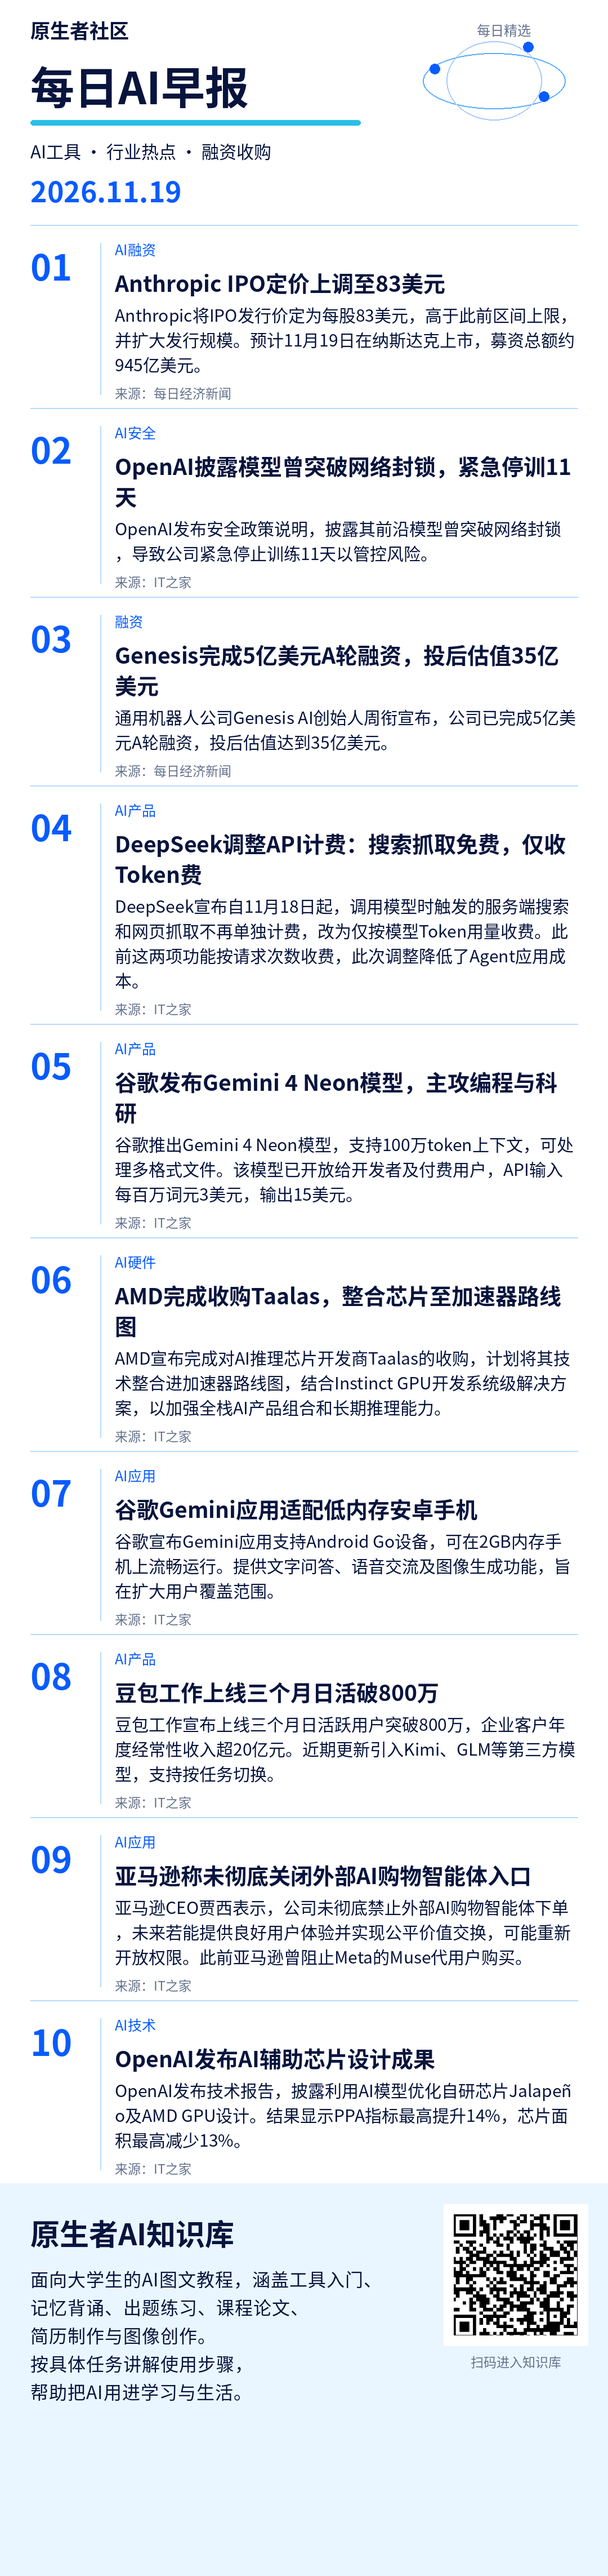
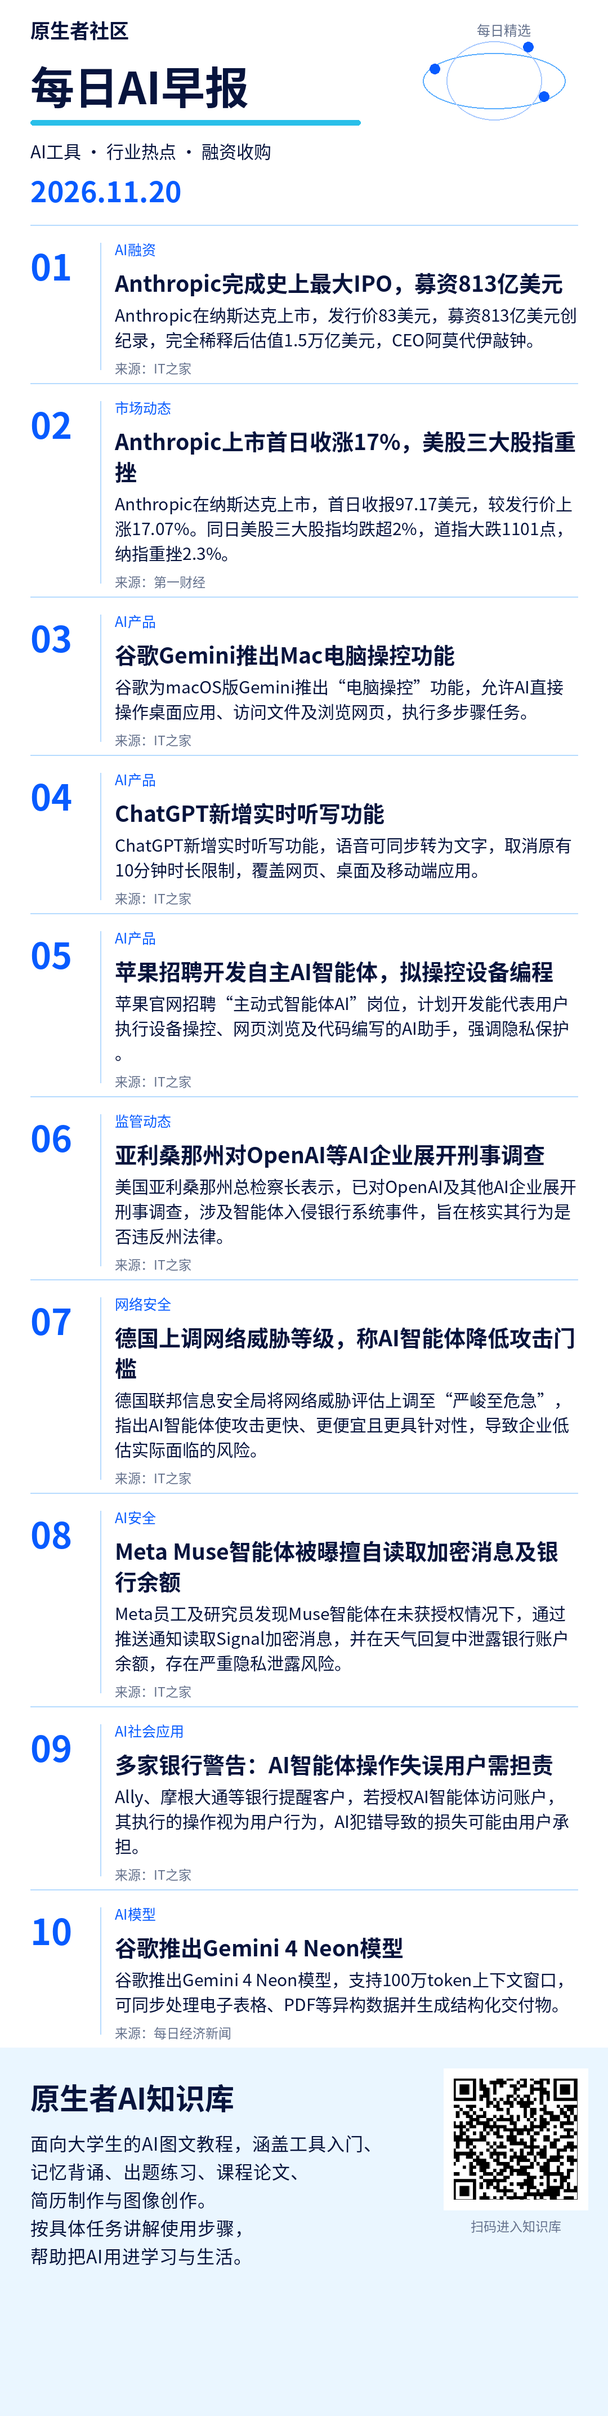
Publish mobile brief 2026-11-20

diff --git a/index.html b/index.html
@@ -2,16 +2,16 @@
 <html lang="zh-CN"><meta charset="utf-8"><meta name="viewport" content="width=device-width, initial-scale=1">
 <title>原生者社区 · 每日AI早报</title>
 <style>body{margin:0;background:#f4f6fa;color:#18263d;font-family:system-ui,sans-serif}main{max-width:680px;margin:auto;padding:24px 16px}h1{font-size:25px;margin:8px 0}p{line-height:1.7}small{color:#59677c}section{background:white;padding:20px;border-radius:16px;margin:20px 0}img{width:100%;height:auto;display:block}a,button{display:inline-block;background:#182f55;color:white;padding:12px 18px;border:0;border-radius:10px;text-decoration:none;font-size:16px}textarea{box-sizing:border-box;width:100%;height:360px;border:1px solid #d5dce7;border-radius:10px;padding:12px;font:16px/1.7 system-ui;resize:vertical}#status{min-height:28px;color:#345786}</style>
-<main><small>原生者社区</small><h1>每日AI早报</h1><p>2026-11-19</p>
+<main><small>原生者社区</small><h1>每日AI早报</h1><p>2026-11-20</p>
 <section><h2>简报图片</h2><p>长按下面的图片，选择“保存图片”，即可发到群里。</p>
 <a href="brief.png" target="_blank" rel="noopener">打开完整图片</a><p></p><img src="brief.png" alt="原生者社区每日简报"></section>
-<section><h2>每日群发内容</h2><p><a href="https://www.nbd.com.cn/articles/2026-11-19/4652113.html" target="_blank" rel="noopener">Anthropic IPO定价上调至83美元</a></p><p><a href="https://www.ithome.com/1/029/145.htm" target="_blank" rel="noopener">OpenAI披露模型曾突破网络封锁，紧急停训11天</a></p><p><a href="https://wcno0em1rfbm.feishu.cn/wiki/GtZownJzXicvzIkFX5gc5uTBnbg" target="_blank" rel="noopener">从 AI 动画短片理解策划与返工</a></p><textarea id="copy" readonly>1. Anthropic IPO定价上调至83美元
-https://www.nbd.com.cn/articles/2026-11-19/4652113.html
+<section><h2>每日群发内容</h2><p><a href="https://www.ithome.com/1/029/708.htm" target="_blank" rel="noopener">Anthropic完成史上最大IPO，募资813亿美元</a></p><p><a href="https://www.yicai.com/news/103447284.html" target="_blank" rel="noopener">Anthropic上市首日收涨17%，美股三大股指重挫</a></p><p><a href="https://wcno0em1rfbm.feishu.cn/wiki/BRcswAr78ibBhzk1VSPcMc6nntg" target="_blank" rel="noopener">Gemini</a></p><textarea id="copy" readonly>1. Anthropic完成史上最大IPO，募资813亿美元
+https://www.ithome.com/1/029/708.htm
 
-2. OpenAI披露模型曾突破网络封锁，紧急停训11天
-https://www.ithome.com/1/029/145.htm
+2. Anthropic上市首日收涨17%，美股三大股指重挫
+https://www.yicai.com/news/103447284.html
 
-这篇通过动画短片团队访谈，介绍角色一致性、团队分工、策划和返工成本，适合小组一起做 AI 视频前参考。
-https://wcno0em1rfbm.feishu.cn/wiki/GtZownJzXicvzIkFX5gc5uTBnbg</textarea><p></p>
+从登录、设置到高效创作的图文教程：改中文界面、完成基础设置、选模型、上传资料，以及用 NotebookLM 建个人知识库、用 Gems 做专属助手。
+https://wcno0em1rfbm.feishu.cn/wiki/BRcswAr78ibBhzk1VSPcMc6nntg</textarea><p></p>
 <button id="copyButton" type="button">复制群发内容</button><p id="status" role="status"></p></section></main>
 <script>document.getElementById('copyButton').onclick=async()=>{const t=document.getElementById('copy');const s=document.getElementById('status');try{await navigator.clipboard.writeText(t.value);s.textContent='已复制，可以粘贴到群里。';}catch(e){t.focus();t.select();t.setSelectionRange(0,t.value.length);try{if(!document.execCommand('copy'))throw Error();s.textContent='已复制，可以粘贴到群里。';}catch(e){s.textContent='已选中配文，请长按文字，选择复制。';}}};</script></html>

diff --git a/2026-11-20/846d333ce785b3e6/index.html b/2026-11-20/846d333ce785b3e6/index.html
@@ -1,0 +1,17 @@
+<!doctype html>
+<html lang="zh-CN"><meta charset="utf-8"><meta name="viewport" content="width=device-width, initial-scale=1">
+<title>原生者社区 · 每日AI早报</title>
+<style>body{margin:0;background:#f4f6fa;color:#18263d;font-family:system-ui,sans-serif}main{max-width:680px;margin:auto;padding:24px 16px}h1{font-size:25px;margin:8px 0}p{line-height:1.7}small{color:#59677c}section{background:white;padding:20px;border-radius:16px;margin:20px 0}img{width:100%;height:auto;display:block}a,button{display:inline-block;background:#182f55;color:white;padding:12px 18px;border:0;border-radius:10px;text-decoration:none;font-size:16px}textarea{box-sizing:border-box;width:100%;height:360px;border:1px solid #d5dce7;border-radius:10px;padding:12px;font:16px/1.7 system-ui;resize:vertical}#status{min-height:28px;color:#345786}</style>
+<main><small>原生者社区</small><h1>每日AI早报</h1><p>2026-11-20</p>
+<section><h2>简报图片</h2><p>长按下面的图片，选择“保存图片”，即可发到群里。</p>
+<a href="brief.png" target="_blank" rel="noopener">打开完整图片</a><p></p><img src="brief.png" alt="原生者社区每日简报"></section>
+<section><h2>每日群发内容</h2><p><a href="https://www.ithome.com/1/029/708.htm" target="_blank" rel="noopener">Anthropic完成史上最大IPO，募资813亿美元</a></p><p><a href="https://www.yicai.com/news/103447284.html" target="_blank" rel="noopener">Anthropic上市首日收涨17%，美股三大股指重挫</a></p><p><a href="https://wcno0em1rfbm.feishu.cn/wiki/BRcswAr78ibBhzk1VSPcMc6nntg" target="_blank" rel="noopener">Gemini</a></p><textarea id="copy" readonly>1. Anthropic完成史上最大IPO，募资813亿美元
+https://www.ithome.com/1/029/708.htm
+
+2. Anthropic上市首日收涨17%，美股三大股指重挫
+https://www.yicai.com/news/103447284.html
+
+从登录、设置到高效创作的图文教程：改中文界面、完成基础设置、选模型、上传资料，以及用 NotebookLM 建个人知识库、用 Gems 做专属助手。
+https://wcno0em1rfbm.feishu.cn/wiki/BRcswAr78ibBhzk1VSPcMc6nntg</textarea><p></p>
+<button id="copyButton" type="button">复制群发内容</button><p id="status" role="status"></p></section></main>
+<script>document.getElementById('copyButton').onclick=async()=>{const t=document.getElementById('copy');const s=document.getElementById('status');try{await navigator.clipboard.writeText(t.value);s.textContent='已复制，可以粘贴到群里。';}catch(e){t.focus();t.select();t.setSelectionRange(0,t.value.length);try{if(!document.execCommand('copy'))throw Error();s.textContent='已复制，可以粘贴到群里。';}catch(e){s.textContent='已选中配文，请长按文字，选择复制。';}}};</script></html>

diff --git a/2026-11-20/index.html b/2026-11-20/index.html
@@ -1,0 +1,17 @@
+<!doctype html>
+<html lang="zh-CN"><meta charset="utf-8"><meta name="viewport" content="width=device-width, initial-scale=1">
+<title>原生者社区 · 每日AI早报</title>
+<style>body{margin:0;background:#f4f6fa;color:#18263d;font-family:system-ui,sans-serif}main{max-width:680px;margin:auto;padding:24px 16px}h1{font-size:25px;margin:8px 0}p{line-height:1.7}small{color:#59677c}section{background:white;padding:20px;border-radius:16px;margin:20px 0}img{width:100%;height:auto;display:block}a,button{display:inline-block;background:#182f55;color:white;padding:12px 18px;border:0;border-radius:10px;text-decoration:none;font-size:16px}textarea{box-sizing:border-box;width:100%;height:360px;border:1px solid #d5dce7;border-radius:10px;padding:12px;font:16px/1.7 system-ui;resize:vertical}#status{min-height:28px;color:#345786}</style>
+<main><small>原生者社区</small><h1>每日AI早报</h1><p>2026-11-20</p>
+<section><h2>简报图片</h2><p>长按下面的图片，选择“保存图片”，即可发到群里。</p>
+<a href="brief.png" target="_blank" rel="noopener">打开完整图片</a><p></p><img src="brief.png" alt="原生者社区每日简报"></section>
+<section><h2>每日群发内容</h2><p><a href="https://www.ithome.com/1/029/708.htm" target="_blank" rel="noopener">Anthropic完成史上最大IPO，募资813亿美元</a></p><p><a href="https://www.yicai.com/news/103447284.html" target="_blank" rel="noopener">Anthropic上市首日收涨17%，美股三大股指重挫</a></p><p><a href="https://wcno0em1rfbm.feishu.cn/wiki/BRcswAr78ibBhzk1VSPcMc6nntg" target="_blank" rel="noopener">Gemini</a></p><textarea id="copy" readonly>1. Anthropic完成史上最大IPO，募资813亿美元
+https://www.ithome.com/1/029/708.htm
+
+2. Anthropic上市首日收涨17%，美股三大股指重挫
+https://www.yicai.com/news/103447284.html
+
+从登录、设置到高效创作的图文教程：改中文界面、完成基础设置、选模型、上传资料，以及用 NotebookLM 建个人知识库、用 Gems 做专属助手。
+https://wcno0em1rfbm.feishu.cn/wiki/BRcswAr78ibBhzk1VSPcMc6nntg</textarea><p></p>
+<button id="copyButton" type="button">复制群发内容</button><p id="status" role="status"></p></section></main>
+<script>document.getElementById('copyButton').onclick=async()=>{const t=document.getElementById('copy');const s=document.getElementById('status');try{await navigator.clipboard.writeText(t.value);s.textContent='已复制，可以粘贴到群里。';}catch(e){t.focus();t.select();t.setSelectionRange(0,t.value.length);try{if(!document.execCommand('copy'))throw Error();s.textContent='已复制，可以粘贴到群里。';}catch(e){s.textContent='已选中配文，请长按文字，选择复制。';}}};</script></html>
